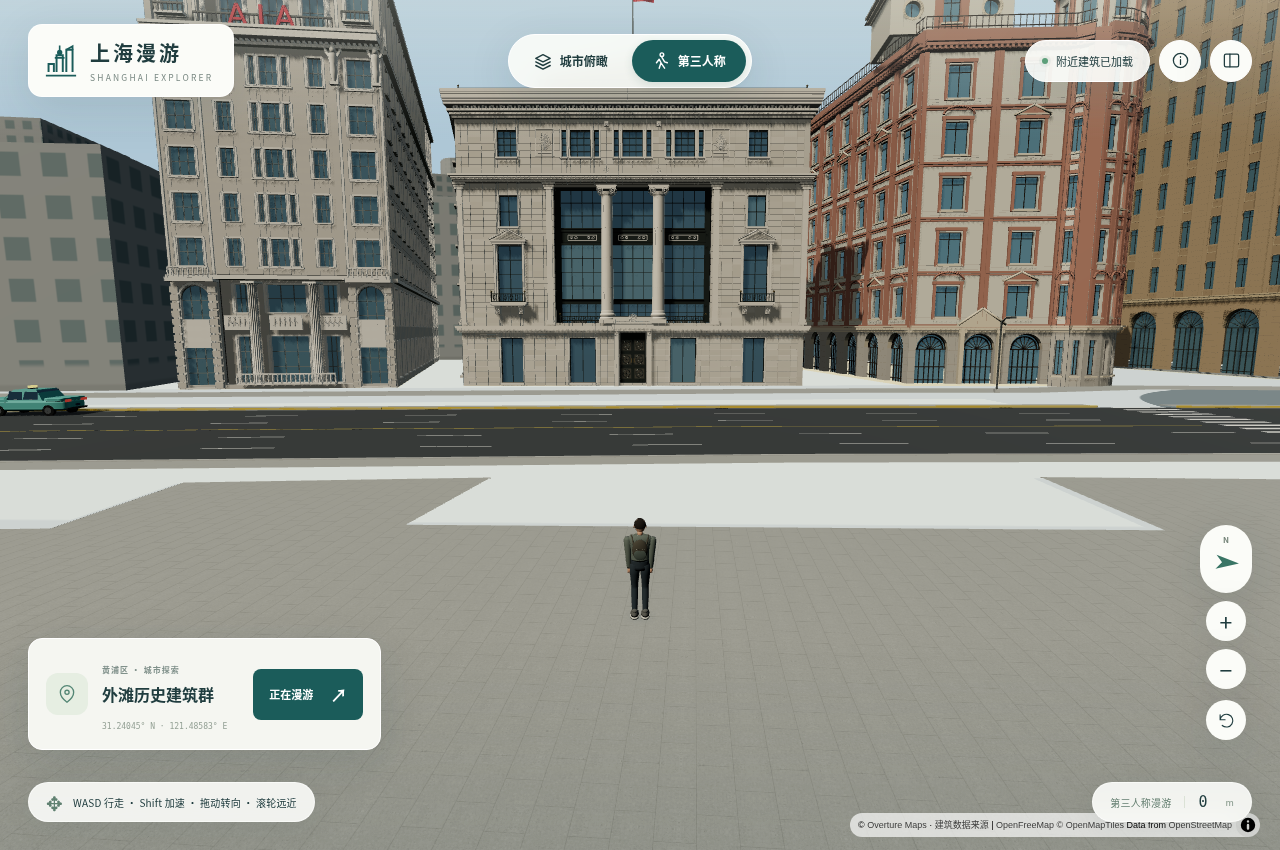
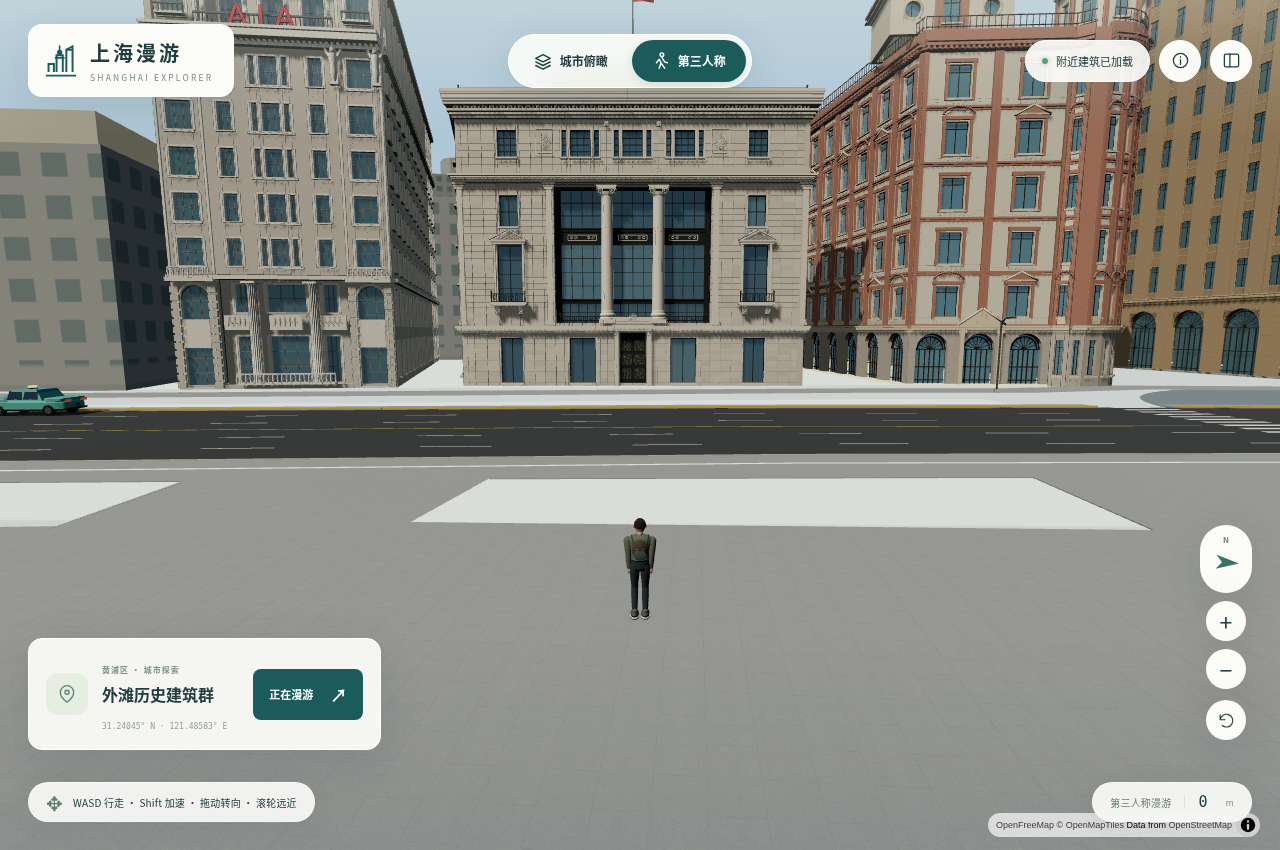
Record public v4.2 street preview and verified launcher download

diff --git a/projects/shanghai/data/bund/PAVING_V4_2.md b/projects/shanghai/data/bund/PAVING_V4_2.md
@@ -9,3 +9,5 @@
 原始街道模型的11组材质几何顶点、法线和索引均保留，新增174个顶点、112个三角面；铺装颜色有意调整。网页模型关闭位置量化和简化，实际解码后全部三角面位置与原始模型一致，法线最大方向差0.0104°。不要将原始几何保留与网页法线逐位一致混为一谈。
 
 [交付与大小](validation/streets-v4.2.json) · [几何核验](validation/connector-geometry-v4.2.json) · [独立审查](validation/connector-review-v4.2.json) · [来源及排除范围](validation/connector-plan-v4.2.json) · [实际解码对照](validation/street-compression-v4.2.json) · [可重建检查](validation/street-rebuild-v4.2.json)
+
+[更新前](../../assets/previews/paving-v4.2/before-street.png) · [公开版实测街景](../../assets/previews/paving-v4.2/public-street.png) · [公开浏览器记录](../../tests/paving-v4.2-public.json)。截图保留未确认的两处开口，不表示这些区域已经复原。

diff --git a/projects/shanghai/README.md b/projects/shanghai/README.md
@@ -2,7 +2,7 @@
 
 上海16区三维地图与第三人称漫游项目。**外滩10栋历史建筑提供近景建筑细节，另有4栋陆家嘴地标；全市背景由1,708个建筑分块、1,796,419个普通建筑及部件要素组成。** 外滩模型根据公开照片与地图轮廓逐栋制作，包含真实凹窗、门洞、柱廊、檐口和屋顶构件；普通建筑以轮廓与高度体块为主，126处另有已核验来源参数的双坡或单坡屋顶。
 
-[在线预览](https://rawcdn.githack.com/ecojust/e-resource/72e344b6e927b1a3130b2ff6e6901875f260eb3e/projects/shanghai/index.html)（首次出现托管提示时点击 **Open the page**）。
+[在线预览](https://rawcdn.githack.com/ecojust/e-resource/b951bbc0ba2422ef3c3a21625e06fb5ae36b719a/projects/shanghai/index.html)（首次出现托管提示时点击 **Open the page**）。
 
 ![外滩第三人称街景](assets/previews/bund-street.png)
 
